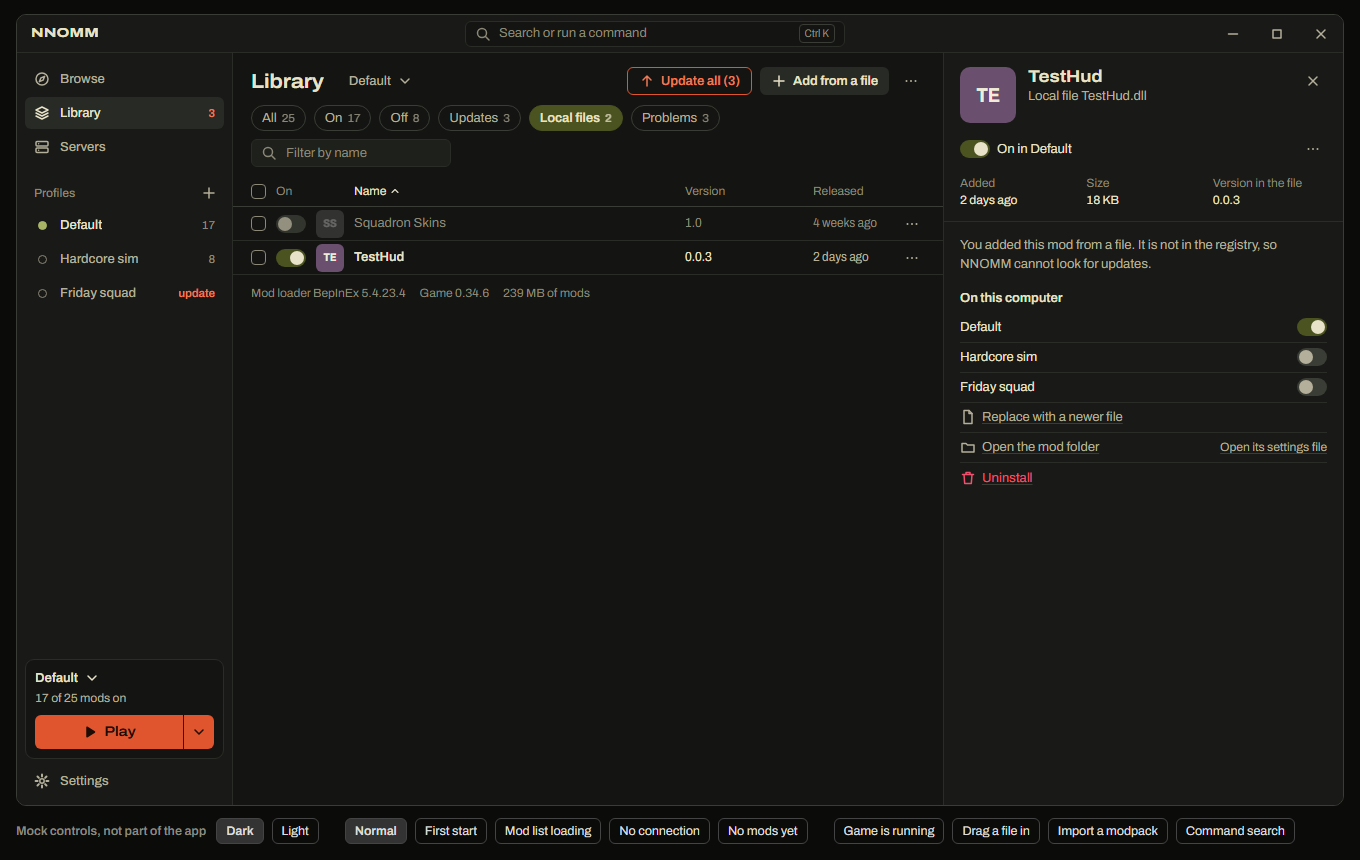
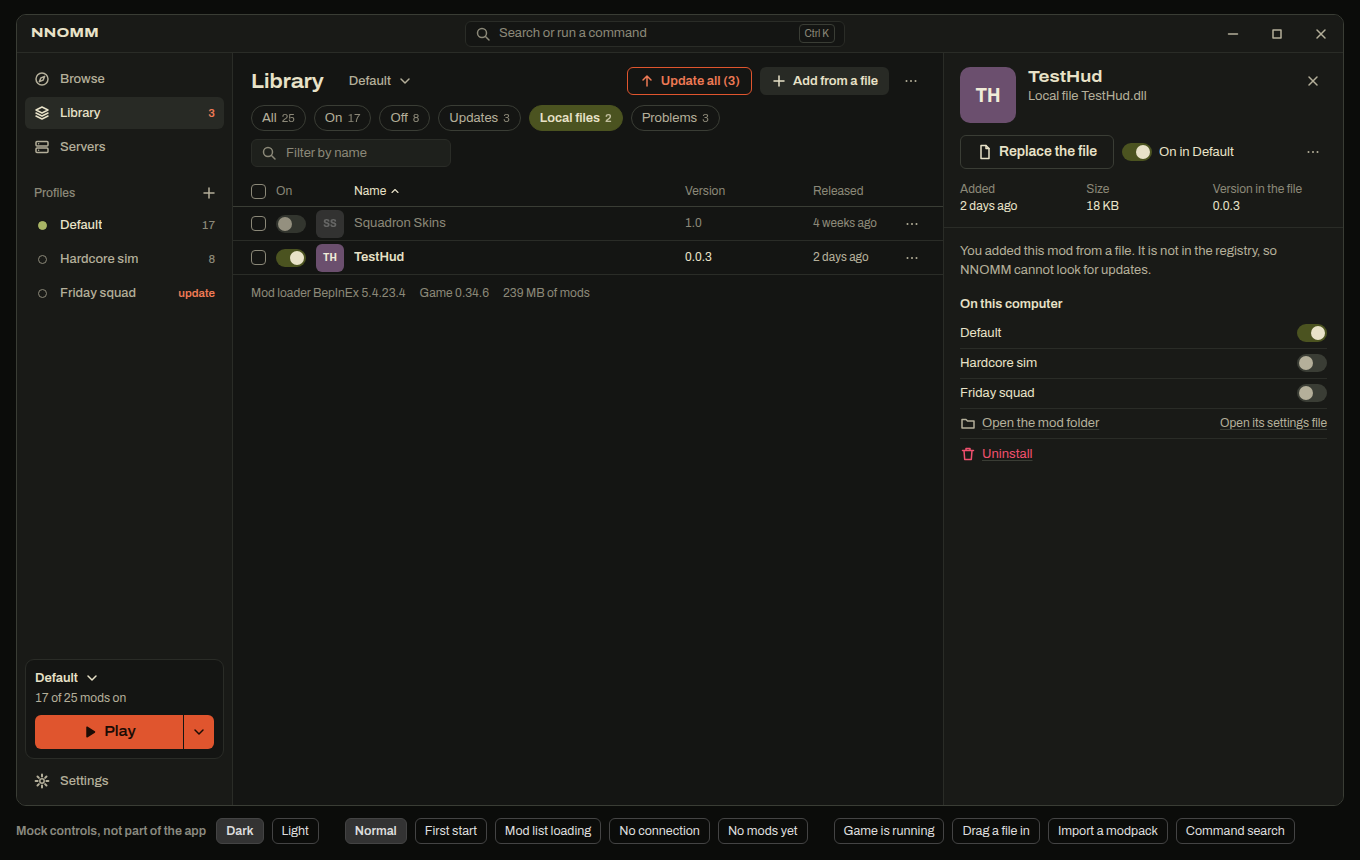
Local mods: Replace the file is a main action
The panel header shows it where registry mods show Update, and the row
menu (right-click and three dots) offers it. A local mod with a missing
file offers to choose the file again instead of Repair, which tried to
download it. The panel's menu is now the Library's shared menu; the mock,
its picture and the user guide follow.

diff --git a/composeApp/src/jvmMain/kotlin/nnomm/ui/panel/ModPanel.kt b/composeApp/src/jvmMain/kotlin/nnomm/ui/panel/ModPanel.kt
@@ -119,7 +119,7 @@ fun ModPanel(ref: PanelRef) {
                         InstallButton(latest?.sizeKb?.let(::size).orEmpty(), !action.disabled) {
                             model.store.install(mod.id)
                         }
-                    installed.fileMissing ->
+                    installed.fileMissing && mod.localFile == null ->
                         Button("Repair", { model.store.repair(mod.id) }, kind = ButtonKind.Line)
                     hasUpdate(state, mod.id) ->
                         Button(
@@ -128,6 +128,14 @@ fun ModPanel(ref: PanelRef) {
                             kind = ButtonKind.Upd,
                             size = ControlSize.Large,
                             enabled = !action.disabled,
+                        )
+                    mod.localFile != null ->
+                        Button(
+                            "Replace the file",
+                            { model.replaceLocal(mod.id) },
+                            kind = ButtonKind.Line,
+                            size = ControlSize.Large,
+                            icon = NnIcons.file,
                         )
                 }
                 if (installed != null) {
@@ -152,65 +160,12 @@ fun ModPanel(ref: PanelRef) {
                     ) {
                         PanelMenu(
                             entries =
-                                buildList {
-                                    add(
-                                        MenuEntry.Item("Open details", hint = "Enter", icon = NnIcons.info) {
-                                            openPanel(mod.id)
-                                        }
-                                    )
-                                    add(
-                                        MenuEntry.Item(
-                                            if (isOn(state, mod.id)) "Turn off" else "Turn on",
-                                            hint = "Space",
-                                            icon = if (isOn(state, mod.id)) NnIcons.toggleOff else NnIcons.toggleOn,
-                                        ) {
-                                            model.store.toggle(mod.id)
-                                        }
-                                    )
-                                    if (hasUpdate(state, mod.id)) {
-                                        add(
-                                            MenuEntry.Item(
-                                                "Update to ${latest?.version}",
-                                                icon = NnIcons.up,
-                                            ) {
-                                                model.store.update(mod.id)
-                                            }
-                                        )
-                                        add(
-                                            MenuEntry.Item("See what's new", icon = NnIcons.list) {
-                                                openPanel(mod.id, PanelTab.WhatsNew)
-                                            }
-                                        )
-                                    }
-                                    add(MenuEntry.Separator)
-                                    add(
-                                        MenuEntry.Item(
-                                            "Open the mod folder",
-                                            icon = NnIcons.folder,
-                                        ) {
-                                            model.openModFolder(mod.id)
-                                        }
-                                    )
-                                    add(
-                                        MenuEntry.Item(
-                                            "Open its settings file",
-                                            icon = NnIcons.file,
-                                        ) {
-                                            model.openModSettings(mod.id)
-                                        }
-                                    )
-                                    add(MenuEntry.Separator)
-                                    add(
-                                        MenuEntry.Item(
-                                            if (multi) "Uninstall (all profiles)" else "Uninstall",
-                                            hint = "Delete",
-                                            danger = true,
-                                            icon = NnIcons.trash,
-                                        ) {
-                                            model.store.uninstall(listOf(mod.id))
-                                        }
-                                    )
-                                }
+                                nnomm.ui.library.modItems(
+                                    model,
+                                    state,
+                                    mod.id,
+                                    keys = model.ui.page == Page.Library,
+                                )
                         ) { expand ->
                             IconButton(NnIcons.more, "More", expand)
                         }
@@ -435,15 +390,6 @@ fun ModPanel(ref: PanelRef) {
                                                 height = 24.dp,
                                             )
                                         }
-                                    }
-                                else
-                                    Kv {
-                                        Button(
-                                            "Replace with a newer file",
-                                            { model.replaceLocal(mod.id) },
-                                            kind = ButtonKind.Ghost,
-                                            icon = NnIcons.file,
-                                        )
                                     }
                                 Kv {
                                     ActionLink("Open the mod folder", NnIcons.folder) {

diff --git a/design/mock/nnomm-mock.html b/design/mock/nnomm-mock.html
@@ -669,6 +669,12 @@ const ICONS = {
   square: '<rect x="4" y="4" width="8" height="8"/>',
   none: '',
   copy: '<rect x="5.5" y="5.5" width="8" height="8" rx="1"/><path d="M3 10.5h-.5v-8h8V3"/>',
+  pencil: '<path d="M10.5 2.5l3 3-8 8H2.5v-3z"/><path d="M9 4l3 3"/>',
+  down: '<path d="M8 3v10M4 9l4 4 4-4"/>',
+  link: '<path d="M6.5 9.5l3-3"/><path d="M7 4.5l1.2-1.2a2.5 2.5 0 0 1 3.5 3.5L10.5 8"/><path d="M9 11.5l-1.2 1.2a2.5 2.5 0 0 1-3.5-3.5L5.5 8"/>',
+  unlink: '<path d="M7 4.5l1.2-1.2a2.5 2.5 0 0 1 3.5 3.5L10.5 8"/><path d="M9 11.5l-1.2 1.2a2.5 2.5 0 0 1-3.5-3.5L5.5 8"/><path d="M2.5 2.5l11 11"/>',
+  toggleOn: '<path d="M5 4.5h6a3.5 3.5 0 0 1 0 7H5a3.5 3.5 0 0 1 0-7z"/><circle cx="11" cy="8" r="1.8" fill="currentColor" stroke="none"/>',
+  toggleOff: '<path d="M5 4.5h6a3.5 3.5 0 0 1 0 7H5a3.5 3.5 0 0 1 0-7z"/><circle cx="5.3" cy="8" r="1.6"/>',
 };
 const I = (n, c = '') => `<svg class="i ${c}" viewBox="0 0 16 16" aria-hidden="true">${ICONS[n] || ''}</svg>`;
 
@@ -1172,7 +1178,8 @@ function pMod() {
   const needN = x.deps.length + conf.length;
   const row = id => `<button class="row linkbtn" style="text-decoration:none;color:var(--text)" data-act="openmod" data-id="${id}">${icon(MOD[id], 's')}${esc(MOD[id].name)}</button>`;
   const main = d ? modAction(x) : !inst ? `<button class="btn strong lg" data-act="install" data-id="${x.id}" ${S.mock === 'offline' ? 'disabled' : ''}>Install<span style="font-weight:400;opacity:.75">${size(x.size)}</span></button>`
-    : st.problem === 'missing' ? modAction(x) : hasUpdate(x.id) ? `<button class="btn upd lg" data-act="update" data-id="${x.id}">Update to ${x.v}</button>` : '';
+    : st.problem === 'missing' ? modAction(x) : hasUpdate(x.id) ? `<button class="btn upd lg" data-act="update" data-id="${x.id}">Update to ${x.v}</button>`
+    : x.local ? `<button class="btn line lg" data-act="noop">${I('file')}Replace the file</button>` : '';
   let h = `<div class="pn-head"><div class="t">${icon(x, 'l')}<div class="grow"><h2>${esc(x.name)}</h2><div class="muted">${x.local ? 'Local file ' : ''}${esc(x.author)}</div></div><button class="iconbtn" data-act="closepanel" title="Close (Esc)">${I('x')}</button></div>
     <div class="row" style="flex-wrap:wrap">${main}${inst ? `<span class="row" style="gap:7px">${tog(isOn(x.id), 'toggle', `data-id="${x.id}"`, 'On in ' + p.name)}<span>${isOn(x.id) ? 'On' : 'Off'}${multi() ? ' in ' + esc(p.name) : ''}</span></span>` : ''}<span class="grow"></span>${inst ? `<button class="iconbtn" data-act="rowmenu" data-id="${x.id}" title="More">${I('more')}</button>` : ''}</div>
     ${problems(x.id).filter(pr => pr.kind).map(pr => `<button class="badge ${pr.kind}" style="height:26px;align-self:flex-start" data-act="problem" data-id="${x.id}" data-key="${pr.key}" title="Click for ways to fix it">${I('alert')}${esc(pr.text)}${I('chevd')}</button>`).join('')}`;
@@ -1180,7 +1187,6 @@ function pMod() {
     return h + `<div class="pn-meta"><div><span>Added</span>${ago(x.added)}</div><div><span>Size</span>${size(x.size)}</div><div><span>Version in the file</span>${esc(v)}</div></div></div>
       <div class="pn-body" data-scroll="pn-${x.id}"><p>${esc(x.desc)}</p>
       <div><h3>On this computer</h3>${multi() ? PROFILES.map(q => `<div class="kv"><span>${esc(q.name)}</span><span class="end">${tog(isOn(x.id, q.id), 'toggleIn', `data-id="${x.id}" data-p="${q.id}"`, 'On in ' + q.name)}</span></div>`).join('') : ''}
-        <div class="kv"><button class="linkbtn row" data-act="noop" style="gap:6px">${I('file')}Replace with a newer file</button></div>
         <div class="kv"><button class="linkbtn row" data-act="noop" style="gap:6px">${I('folder')}Open the mod folder</button><span class="end"><button class="linkbtn" data-act="noop">Open its settings file</button></span></div>
         <div class="kv"><button class="linkbtn row" data-act="remove" data-id="${x.id}" style="gap:6px;color:var(--danger)">${I('trash')}Uninstall</button></div></div></div>`;
   }
@@ -1449,6 +1455,7 @@ function profileItems(id) {
 function modItems(id) {
   const x = MOD[id], on = isOn(id), it = [{ label: 'Open details', hint: 'Enter', fn: () => { S.panel = { kind: 'mod', id, tab: 'about' }; } }, { label: on ? 'Turn off' : 'Turn on', hint: 'Space', fn: () => { INST[id].on[S.profile] = !on; } }];
   if (hasUpdate(id)) it.push({ label: `Update to ${x.v}`, ic: 'up', fn: () => download(id, 'update') }, { label: "See what's new", fn: () => { S.panel = { kind: 'mod', id, tab: 'new' }; } });
+  if (x.local) it.push({ label: 'Replace the file', ic: 'file', fn: ACT.noop });
   it.push('-', { label: 'Open the mod folder', ic: 'folder', fn: ACT.noop }, { label: 'Open its settings file', ic: 'file', fn: ACT.noop }, '-', { label: multi() ? 'Uninstall (all profiles)' : 'Uninstall', ic: 'trash', hint: 'Delete', dz: true, fn: () => removeMods([id]) });
   return it;
 }

diff --git a/design/mock/src/views.js b/design/mock/src/views.js
@@ -251,7 +251,8 @@ function pMod() {
   const needN = x.deps.length + conf.length;
   const row = id => `<button class="row linkbtn" style="text-decoration:none;color:var(--text)" data-act="openmod" data-id="${id}">${icon(MOD[id], 's')}${esc(MOD[id].name)}</button>`;
   const main = d ? modAction(x) : !inst ? `<button class="btn strong lg" data-act="install" data-id="${x.id}" ${S.mock === 'offline' ? 'disabled' : ''}>Install<span style="font-weight:400;opacity:.75">${size(x.size)}</span></button>`
-    : st.problem === 'missing' ? modAction(x) : hasUpdate(x.id) ? `<button class="btn upd lg" data-act="update" data-id="${x.id}">Update to ${x.v}</button>` : '';
+    : st.problem === 'missing' ? modAction(x) : hasUpdate(x.id) ? `<button class="btn upd lg" data-act="update" data-id="${x.id}">Update to ${x.v}</button>`
+    : x.local ? `<button class="btn line lg" data-act="noop">${I('file')}Replace the file</button>` : '';
   let h = `<div class="pn-head"><div class="t">${icon(x, 'l')}<div class="grow"><h2>${esc(x.name)}</h2><div class="muted">${x.local ? 'Local file ' : ''}${esc(x.author)}</div></div><button class="iconbtn" data-act="closepanel" title="Close (Esc)">${I('x')}</button></div>
     <div class="row" style="flex-wrap:wrap">${main}${inst ? `<span class="row" style="gap:7px">${tog(isOn(x.id), 'toggle', `data-id="${x.id}"`, 'On in ' + p.name)}<span>${isOn(x.id) ? 'On' : 'Off'}${multi() ? ' in ' + esc(p.name) : ''}</span></span>` : ''}<span class="grow"></span>${inst ? `<button class="iconbtn" data-act="rowmenu" data-id="${x.id}" title="More">${I('more')}</button>` : ''}</div>
     ${problems(x.id).filter(pr => pr.kind).map(pr => `<button class="badge ${pr.kind}" style="height:26px;align-self:flex-start" data-act="problem" data-id="${x.id}" data-key="${pr.key}" title="Click for ways to fix it">${I('alert')}${esc(pr.text)}${I('chevd')}</button>`).join('')}`;
@@ -259,7 +260,6 @@ function pMod() {
     return h + `<div class="pn-meta"><div><span>Added</span>${ago(x.added)}</div><div><span>Size</span>${size(x.size)}</div><div><span>Version in the file</span>${esc(v)}</div></div></div>
       <div class="pn-body" data-scroll="pn-${x.id}"><p>${esc(x.desc)}</p>
       <div><h3>On this computer</h3>${multi() ? PROFILES.map(q => `<div class="kv"><span>${esc(q.name)}</span><span class="end">${tog(isOn(x.id, q.id), 'toggleIn', `data-id="${x.id}" data-p="${q.id}"`, 'On in ' + q.name)}</span></div>`).join('') : ''}
-        <div class="kv"><button class="linkbtn row" data-act="noop" style="gap:6px">${I('file')}Replace with a newer file</button></div>
         <div class="kv"><button class="linkbtn row" data-act="noop" style="gap:6px">${I('folder')}Open the mod folder</button><span class="end"><button class="linkbtn" data-act="noop">Open its settings file</button></span></div>
         <div class="kv"><button class="linkbtn row" data-act="remove" data-id="${x.id}" style="gap:6px;color:var(--danger)">${I('trash')}Uninstall</button></div></div></div>`;
   }

diff --git a/core/src/test/kotlin/nnomm/core/ReplaceLocalTest.kt b/core/src/test/kotlin/nnomm/core/ReplaceLocalTest.kt
@@ -4,7 +4,11 @@ import kotlin.test.*
 import kotlinx.coroutines.ExperimentalCoroutinesApi
 import kotlinx.coroutines.test.*
 import nnomm.core.demo.Demo
+import nnomm.core.model.ActionKind
 import nnomm.core.model.ModSource
+import nnomm.core.rules.modAction
+import nnomm.core.rules.problemFixes
+import nnomm.core.rules.problems
 import nnomm.core.store.AppStore
 
 @OptIn(ExperimentalCoroutinesApi::class)
@@ -30,5 +34,17 @@ class ReplaceLocalTest {
             assertEquals(old, store.state.value.installed[old.id])
             assertEquals(seed.mod(old.id), store.state.value.mod(old.id))
         }
+    }
+
+    @Test
+    fun aMissingLocalFileIsChosenAgainNotDownloaded() {
+        val seed = Demo.state()
+        val local = seed.installed.values.first { it.source == ModSource.LOCAL }
+        val s = seed.copy(installed = seed.installed + (local.id to local.copy(fileMissing = true)))
+        assertEquals(ActionKind.REPLACEFILE, modAction(s, local.id).action?.kind)
+        val missing = problems(s, local.id).first { it.key == "missing" }
+        val fixes = problemFixes(s, local.id, missing).map { it.action.kind }
+        assertTrue(ActionKind.REPLACEFILE in fixes)
+        assertTrue(ActionKind.REPAIRPROBLEM !in fixes)
     }
 }

diff --git a/core/src/main/kotlin/nnomm/core/rules/Lists.kt b/core/src/main/kotlin/nnomm/core/rules/Lists.kt
@@ -382,6 +382,12 @@ fun modAction(s: AppState, id: String): ModAction {
             off,
             if (off) "Needs a connection" else null,
         )
+    if (s.installed.getValue(id).fileMissing && s.mod(id).localFile != null)
+        return ModAction(
+            "Replace the file",
+            UiAction("replaceFile", id),
+            tooltip = "The file is missing. Choose it again.",
+        )
     if (s.installed.getValue(id).fileMissing)
         return ModAction(
             "Repair",
@@ -434,7 +440,9 @@ fun problemFixes(s: AppState, id: String, p: Problem): List<FixItem> {
             )
         "missing" ->
             listOf(
-                FixItem("Download it again", UiAction("repairProblem", id)),
+                if (s.mod(id).localFile != null)
+                    FixItem("Choose the file again", UiAction("replaceFile", id))
+                else FixItem("Download it again", UiAction("repairProblem", id)),
                 FixItem("Remove it from the list", UiAction("uninstall", id), true),
             )
         else -> emptyList()

diff --git a/composeApp/src/jvmMain/kotlin/nnomm/ui/AppModel.kt b/composeApp/src/jvmMain/kotlin/nnomm/ui/AppModel.kt
@@ -309,7 +309,7 @@ class AppModel(
     fun replaceLocal(id: String) {
         scope.launch {
             platform
-                .chooseFiles("Replace with a newer file", listOf("dll", "zip", "7z"), false)
+                .chooseFiles("Replace the file", listOf("dll", "zip", "7z"), false)
                 .firstOrNull()
                 ?.let { store.replaceLocal(id, it.absolutePath) }
         }
@@ -409,6 +409,7 @@ class AppModel(
             ActionKind.UPDATE -> action.id?.let(store::update)
             ActionKind.REPAIR,
             ActionKind.REPAIRPROBLEM -> action.id?.let(store::repair)
+            ActionKind.REPLACEFILE -> action.id?.let(::replaceLocal)
             ActionKind.TURNON -> action.id?.let { store.setOn(listOf(it), true) }
             ActionKind.TURNOFF -> action.id?.let { store.setOn(listOf(it), false) }
             ActionKind.PALETTETOGGLE -> action.id?.let(store::paletteToggle)

diff --git a/design/mock/src/app.js b/design/mock/src/app.js
@@ -197,6 +197,7 @@ function profileItems(id) {
 function modItems(id) {
   const x = MOD[id], on = isOn(id), it = [{ label: 'Open details', hint: 'Enter', fn: () => { S.panel = { kind: 'mod', id, tab: 'about' }; } }, { label: on ? 'Turn off' : 'Turn on', hint: 'Space', fn: () => { INST[id].on[S.profile] = !on; } }];
   if (hasUpdate(id)) it.push({ label: `Update to ${x.v}`, ic: 'up', fn: () => download(id, 'update') }, { label: "See what's new", fn: () => { S.panel = { kind: 'mod', id, tab: 'new' }; } });
+  if (x.local) it.push({ label: 'Replace the file', ic: 'file', fn: ACT.noop });
   it.push('-', { label: 'Open the mod folder', ic: 'folder', fn: ACT.noop }, { label: 'Open its settings file', ic: 'file', fn: ACT.noop }, '-', { label: multi() ? 'Uninstall (all profiles)' : 'Uninstall', ic: 'trash', hint: 'Delete', dz: true, fn: () => removeMods([id]) });
   return it;
 }

diff --git a/composeApp/src/jvmTest/kotlin/nnomm/ui/RightClickMenusTest.kt b/composeApp/src/jvmTest/kotlin/nnomm/ui/RightClickMenusTest.kt
@@ -38,6 +38,18 @@ class RightClickMenusTest {
     }
 
     @Test
+    fun onlyALocalModOffersToReplaceItsFile() {
+        mockStore("").use { store ->
+            val model = AppModel(store, ShotPlatform)
+            val s = store.state.value
+            val local = s.installed.keys.first { s.mod(it).localFile != null }
+            val registry = s.installed.keys.first { s.mod(it).localFile == null }
+            assertTrue("Replace the file" in modItems(model, s, local).items().map { it.text })
+            assertTrue("Replace the file" !in modItems(model, s, registry).items().map { it.text })
+        }
+    }
+
+    @Test
     fun selectionMenuActsOnEverySelectedMod() {
         mockStore("").use { store ->
             val model = AppModel(store, ShotPlatform)

diff --git a/composeApp/src/jvmMain/kotlin/nnomm/ui/library/LibraryMenus.kt b/composeApp/src/jvmMain/kotlin/nnomm/ui/library/LibraryMenus.kt
@@ -108,6 +108,8 @@ internal fun modItems(
         )
         add(MenuEntry.Item("See what's new", icon = NnIcons.list) { model.ui.openMod(id, PanelTab.WhatsNew) })
     }
+    if (s.mod(id).localFile != null)
+        add(MenuEntry.Item("Replace the file", icon = NnIcons.file) { model.replaceLocal(id) })
     add(MenuEntry.Separator)
     add(MenuEntry.Item("Open the mod folder", icon = NnIcons.folder) { model.openModFolder(id) })
     add(MenuEntry.Item("Open its settings file", icon = NnIcons.file) { model.openModSettings(id) })

diff --git a/core/src/main/kotlin/nnomm/core/model/Types.kt b/core/src/main/kotlin/nnomm/core/model/Types.kt
@@ -74,6 +74,7 @@ enum class ActionKind {
     @SerialName("turnOn") TURNON,
     @SerialName("turnOff") TURNOFF,
     @SerialName("repairProblem") REPAIRPROBLEM,
+    @SerialName("replaceFile") REPLACEFILE,
     @SerialName("uninstall") UNINSTALL,
 }
 

diff --git a/docs/user-guide.md b/docs/user-guide.md
@@ -105,7 +105,7 @@ The Library lists every mod on your computer, with its switch for the profile yo
 - **Columns:** name, version, source (Registry, Modpack or Local file), size, release date. Click a column heading to sort.
 - **Quick filters** on top: All, On, Off, Updates, Local files, Problems. Each shows how many mods it has.
 - **Filter by name:** type to find a mod.
-- **Three dots** at the end of a row (or right-click the row): open details, turn on or off, update, see what's new, open the mod folder, open its settings file, uninstall.
+- **Three dots** at the end of a row (or right-click the row): open details, turn on or off, update, see what's new, replace the file (local files only), open the mod folder, open its settings file, uninstall.
 - **The three dots beside Add from a file:** import a modpack, share this profile as a modpack, look for updates, find the mod that breaks the game, open the mods folder.
 - At the bottom, NNOMM shows the version of the mod loader, the game version and how much space your mods use.
 
@@ -224,7 +224,7 @@ For a mod that is not in the registry:
 - click **Add from a file** in the Library, or
 - drag the file onto the NNOMM window.
 
-NNOMM accepts `.dll`, `.zip` and `.7z` files. The mod goes into your Library. If the file is a mod from the registry, NNOMM recognises it and can update it later. Otherwise it is a local file: NNOMM cannot look for its updates, but you can use **Replace with a newer file** in its panel.
+NNOMM accepts `.dll`, `.zip` and `.7z` files. The mod goes into your Library. If the file is a mod from the registry, NNOMM recognises it and can update it later. Otherwise it is a local file: NNOMM cannot look for its updates, but you can use **Replace the file** in its panel or in its menu (the three dots or a right-click).
 
 A `.nommpack` file opens the modpack preview.
 
